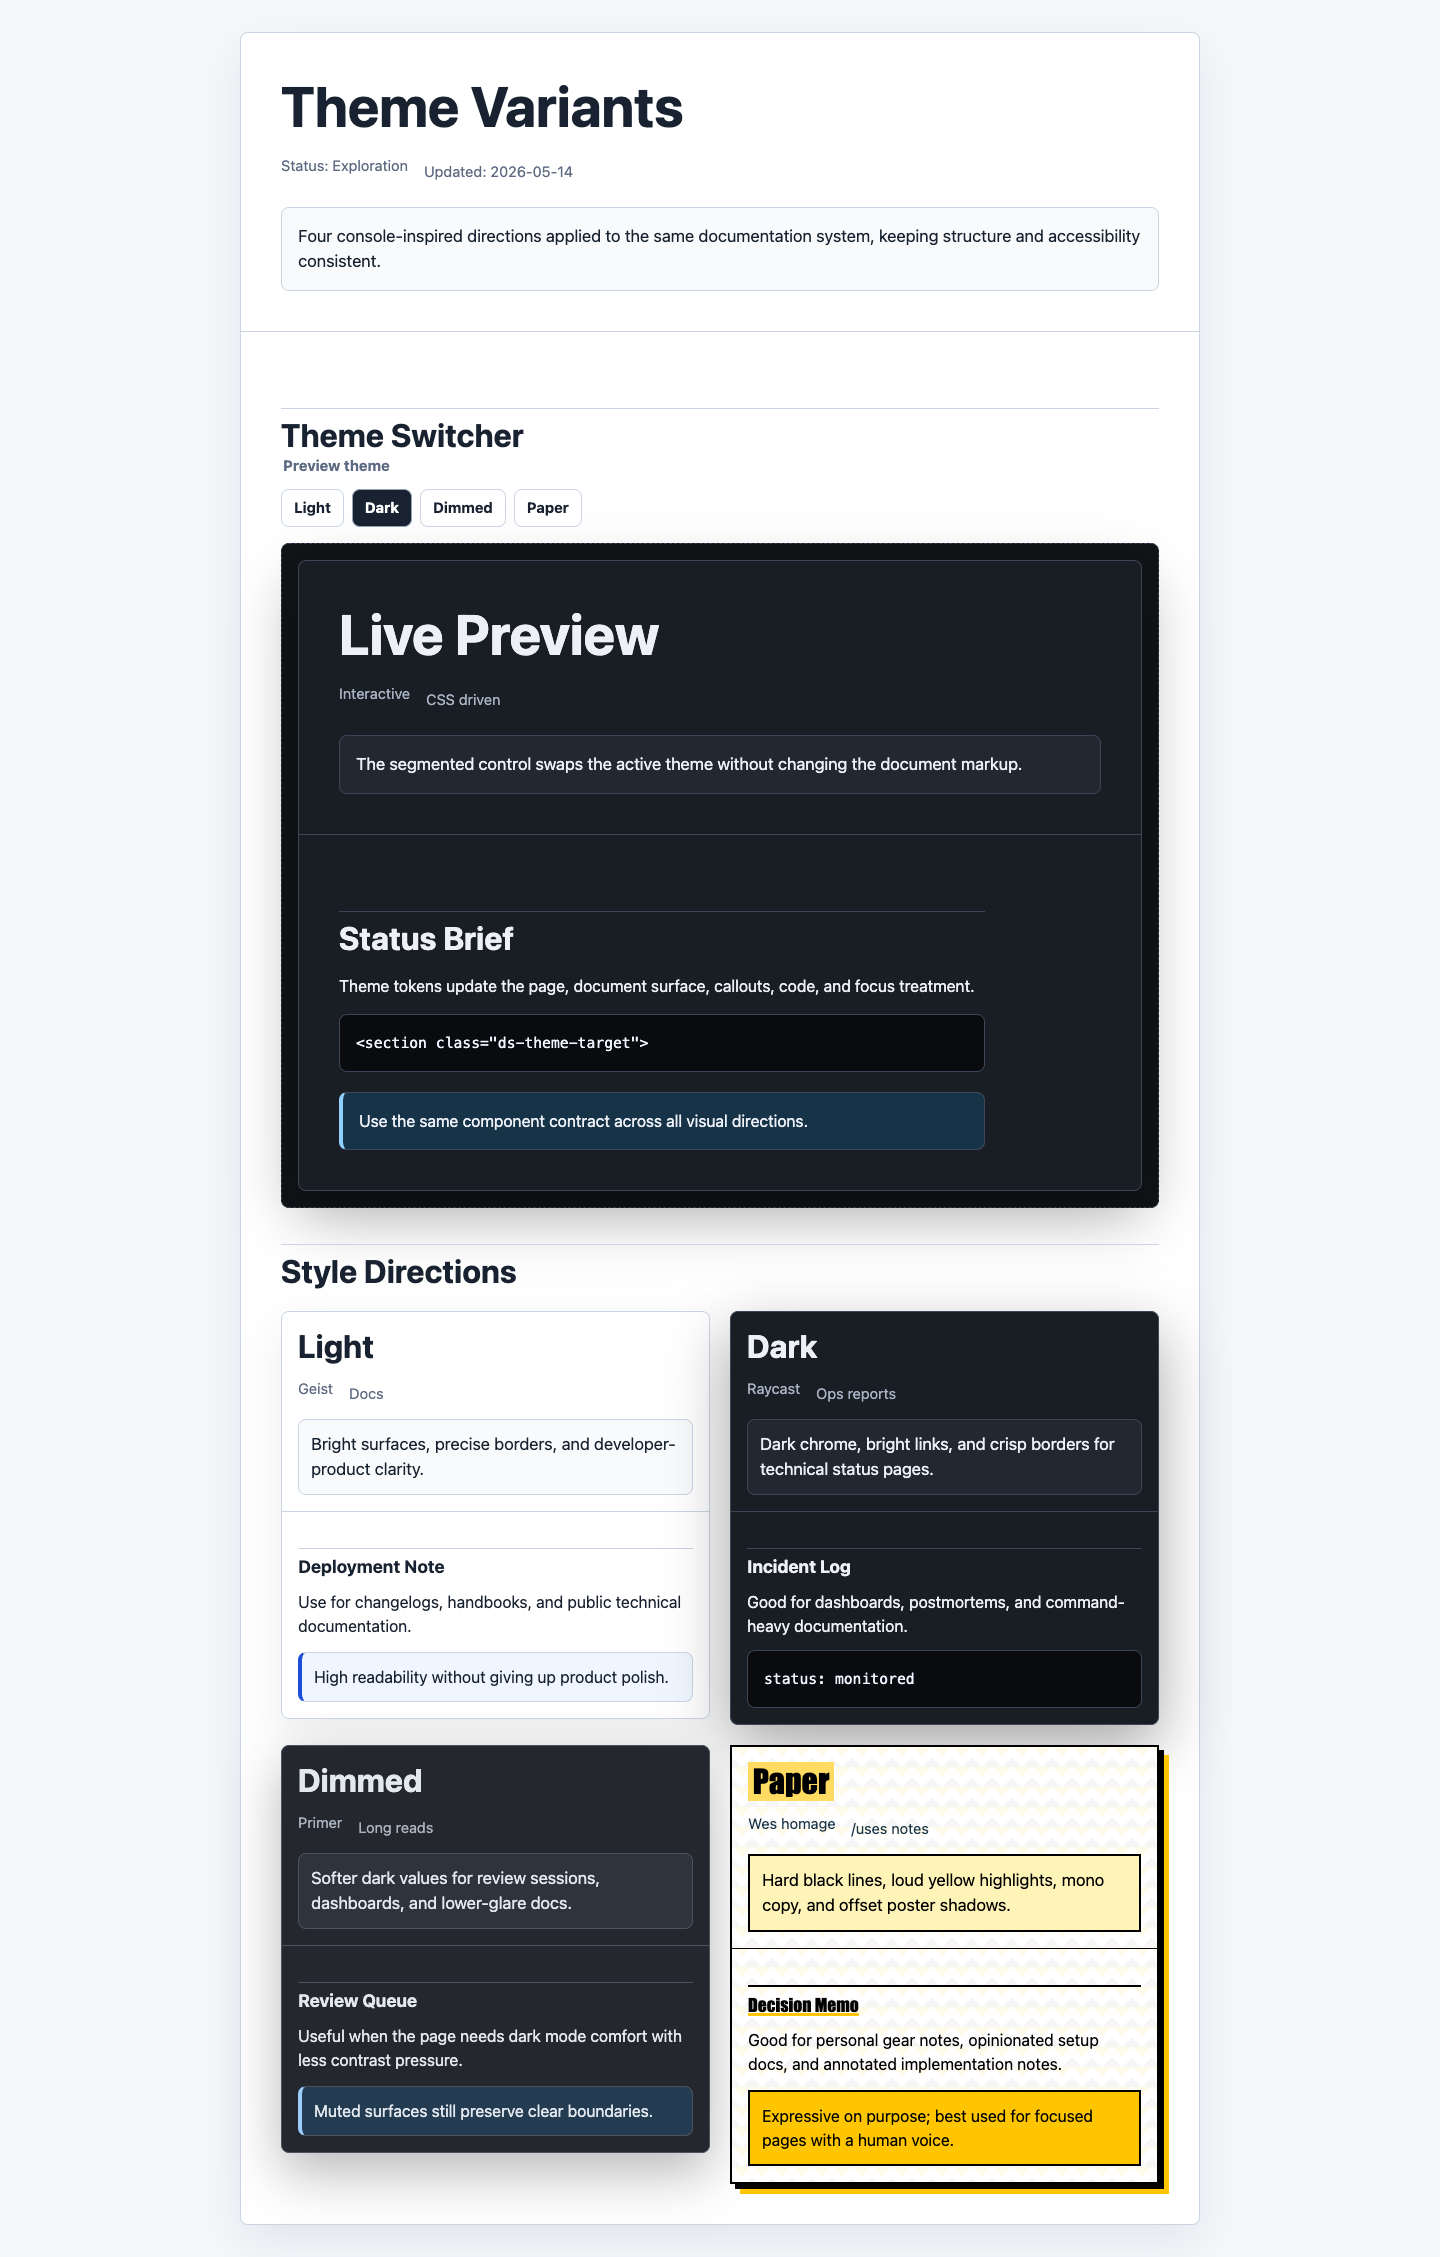
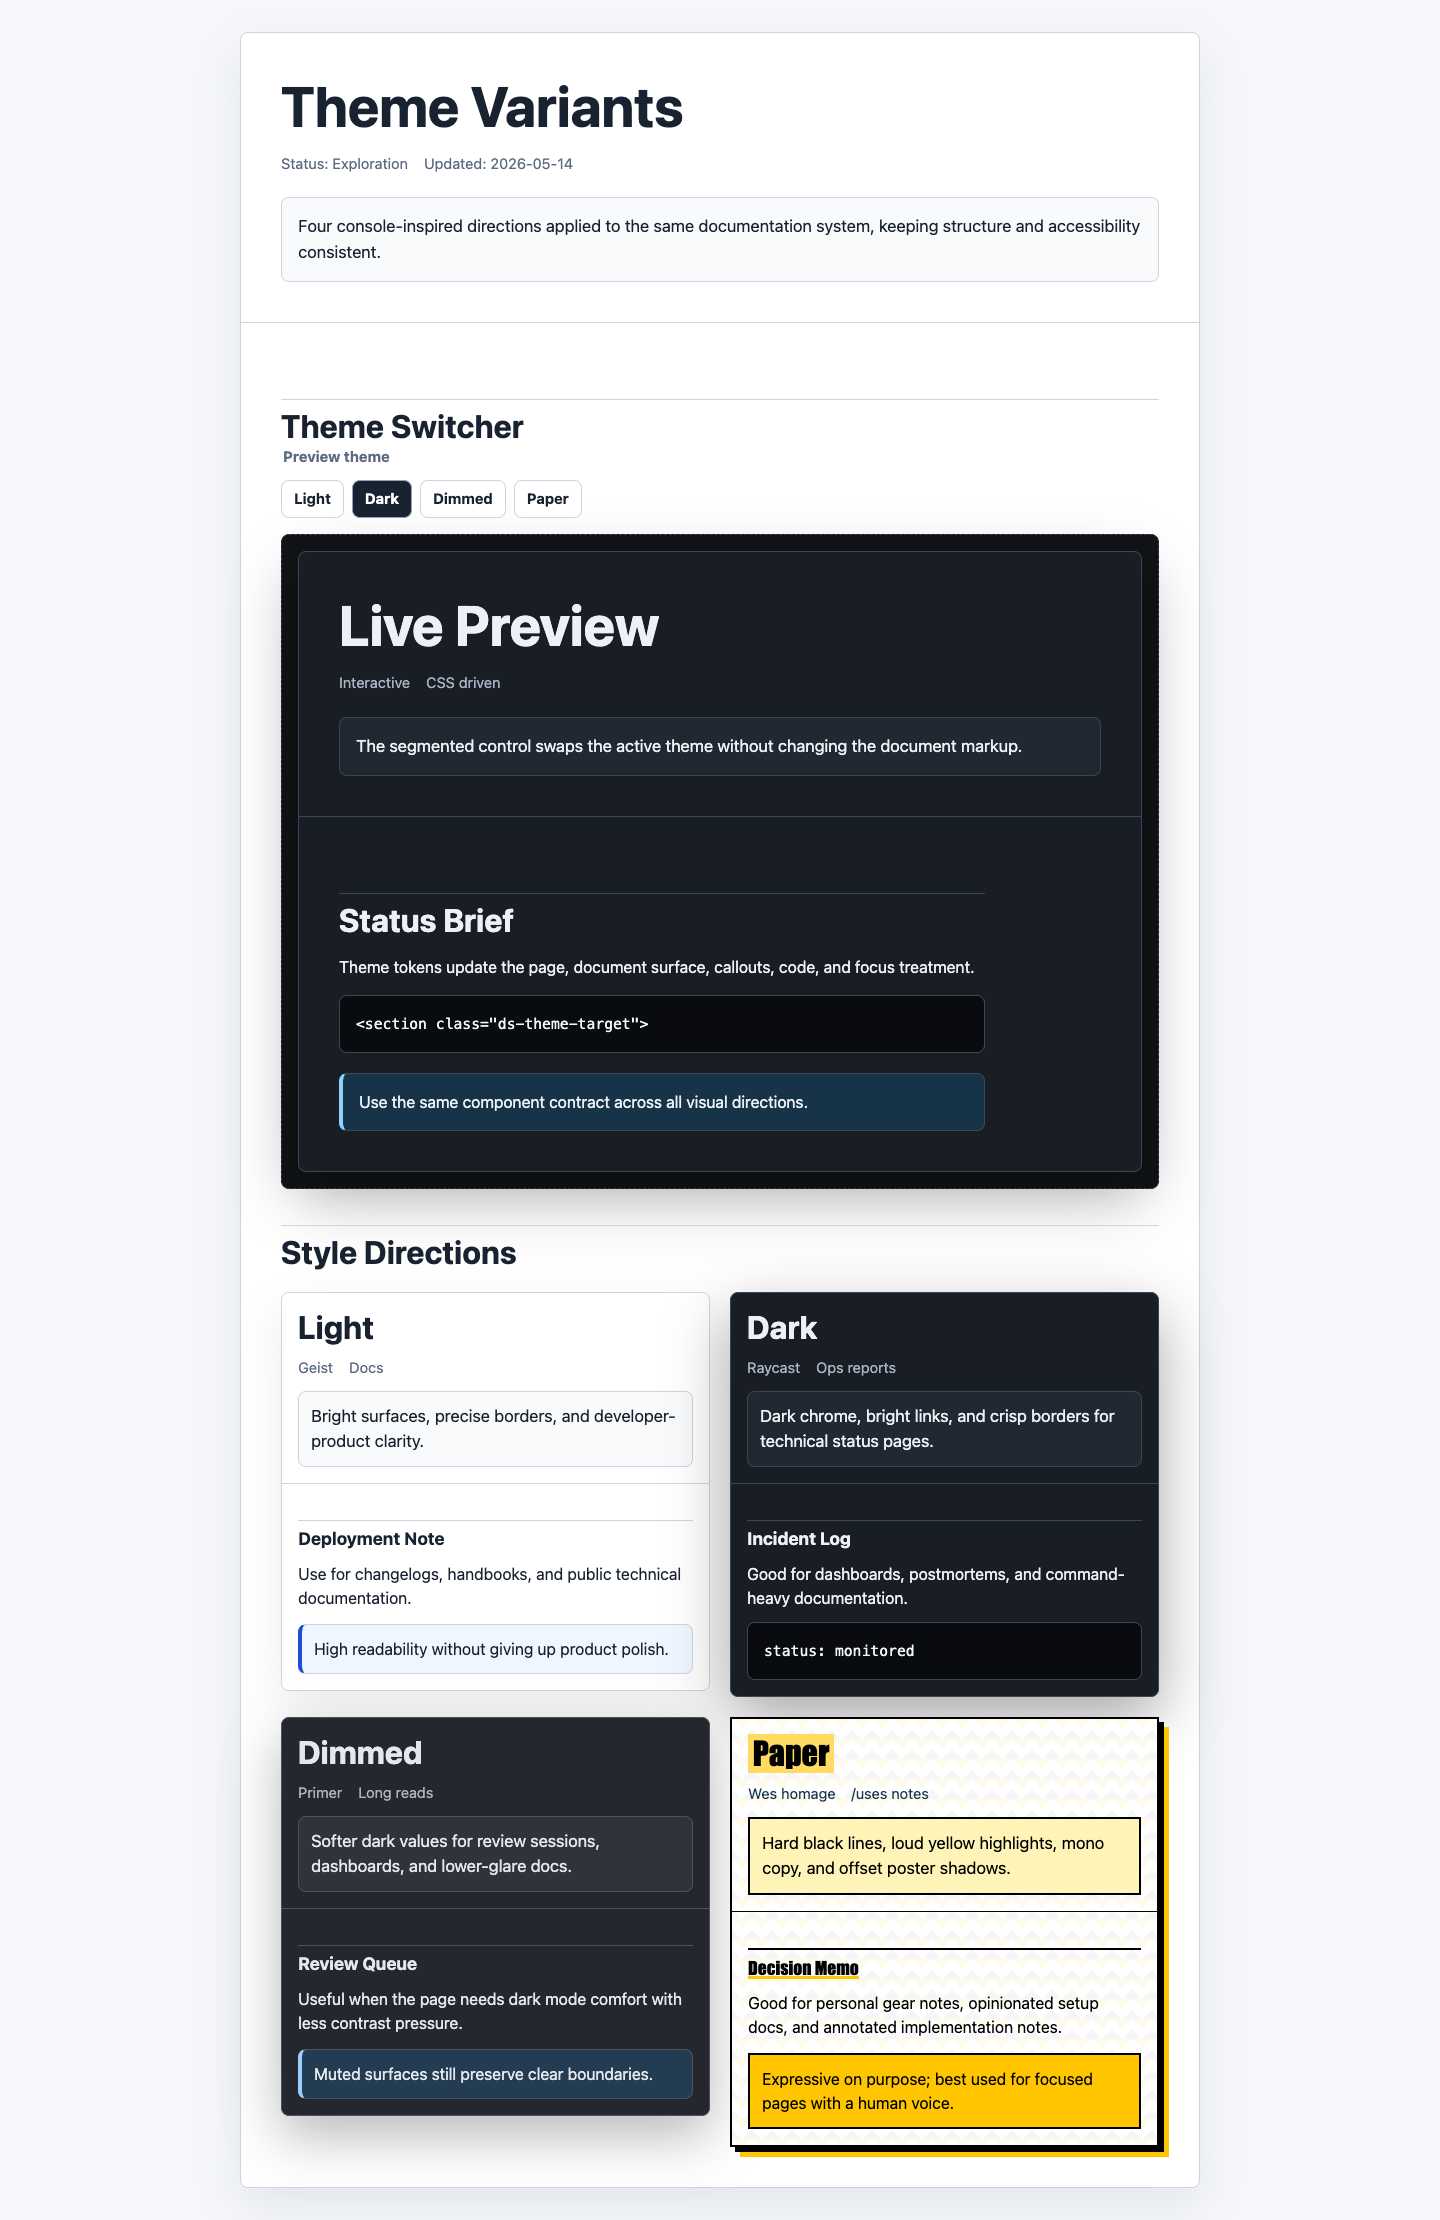
fix: use GitHub CSS URL in scaffolds

diff --git a/design-system-cdn-demo.html b/design-system-cdn-demo.html
@@ -4,7 +4,7 @@
   <meta charset="utf-8">
   <meta name="viewport" content="width=device-width, initial-scale=1">
   <title>Release Notes</title>
-  <link rel="stylesheet" href="design-system-cdn.css">
+  <link rel="stylesheet" href="https://raw.githubusercontent.com/rwese/design-systems/main/design-system-cdn.css">
 </head>
 <body class="ds-page">
   <article class="ds-doc">
@@ -36,7 +36,7 @@
       <section id="usage">
         <h2>Usage</h2>
         <p>Link the CDN stylesheet and write one focused document per HTML file.</p>
-        <pre><code>&lt;link rel="stylesheet" href="https://cdn.example.com/design-system-cdn.css"&gt;</code></pre>
+        <pre><code>&lt;link rel="stylesheet" href="https://raw.githubusercontent.com/rwese/design-systems/main/design-system-cdn.css"&gt;</code></pre>
         <ol>
           <li>Use <code>body.ds-page</code> and <code>article.ds-doc</code>.</li>
           <li>Keep the summary to one paragraph.</li>

diff --git a/design-system-cdn.css b/design-system-cdn.css
@@ -385,17 +385,20 @@ th {
 
 .ds-meta {
   display: flex;
+  align-items: baseline;
   flex-wrap: wrap;
   gap: 0.5rem 1rem;
   margin: 1rem 0 0;
   padding: 0;
   color: var(--ds-text-muted);
   font-size: 0.92rem;
+  line-height: 1.25;
   list-style: none;
 }
 
 .ds-meta li {
   min-width: 0;
+  margin-top: 0;
 }
 
 .ds-summary {

diff --git a/design-system-variants-demo.html b/design-system-variants-demo.html
@@ -4,7 +4,7 @@
   <meta charset="utf-8">
   <meta name="viewport" content="width=device-width, initial-scale=1">
   <title>Theme Variants</title>
-  <link rel="stylesheet" href="design-system-cdn.css">
+  <link rel="stylesheet" href="https://raw.githubusercontent.com/rwese/design-systems/main/design-system-cdn.css">
 </head>
 <body class="ds-page">
   <article class="ds-doc">

diff --git a/scaffold.py b/scaffold.py
@@ -1,0 +1,84 @@
+#!/usr/bin/env python3
+"""Generate a single-page document using the design-system stylesheet."""
+
+from __future__ import annotations
+
+import argparse
+import html
+from pathlib import Path
+
+
+DEFAULT_CSS_URL = "https://raw.githubusercontent.com/rwese/design-systems/main/design-system-cdn.css"
+
+
+def parse_args() -> argparse.Namespace:
+    parser = argparse.ArgumentParser(description=__doc__)
+    parser.add_argument("output", type=Path, help="HTML file to write")
+    parser.add_argument("--title", default="Document title", help="Document title and h1 text")
+    parser.add_argument("--status", default="Draft", help="Status metadata value")
+    parser.add_argument("--owner", default="Team", help="Owner metadata value")
+    parser.add_argument(
+        "--custom-css-url",
+        default=DEFAULT_CSS_URL,
+        help=f"Stylesheet URL to include. Defaults to {DEFAULT_CSS_URL}",
+    )
+    return parser.parse_args()
+
+
+def render(title: str, status: str, owner: str, css_url: str) -> str:
+    title_text = html.escape(title)
+    status_text = html.escape(status)
+    owner_text = html.escape(owner)
+    css_href = html.escape(css_url, quote=True)
+
+    return f"""<!DOCTYPE html>
+<html lang="en">
+<head>
+  <meta charset="utf-8">
+  <meta name="viewport" content="width=device-width, initial-scale=1">
+  <title>{title_text}</title>
+  <link rel="stylesheet" href="{css_href}">
+</head>
+<body class="ds-page">
+  <article class="ds-doc">
+    <header class="ds-doc__header">
+      <h1>{title_text}</h1>
+      <ul class="ds-meta">
+        <li>Status: {status_text}</li>
+        <li>Owner: {owner_text}</li>
+      </ul>
+      <p class="ds-summary">One concise summary paragraph.</p>
+      <nav class="ds-toc" aria-labelledby="toc-title">
+        <h2 id="toc-title">Contents</h2>
+        <ol>
+          <li><a href="#section">Section</a></li>
+        </ol>
+      </nav>
+    </header>
+
+    <div class="ds-doc__body">
+      <section id="section">
+        <h2>Section</h2>
+        <p>Write semantic HTML and use documentation patterns only where useful.</p>
+      </section>
+    </div>
+
+    <footer class="ds-doc__footer">
+      <p>Footer note.</p>
+    </footer>
+  </article>
+</body>
+</html>
+"""
+
+
+def main() -> None:
+    args = parse_args()
+    args.output.write_text(
+        render(args.title, args.status, args.owner, args.custom_css_url),
+        encoding="utf-8",
+    )
+
+
+if __name__ == "__main__":
+    main()